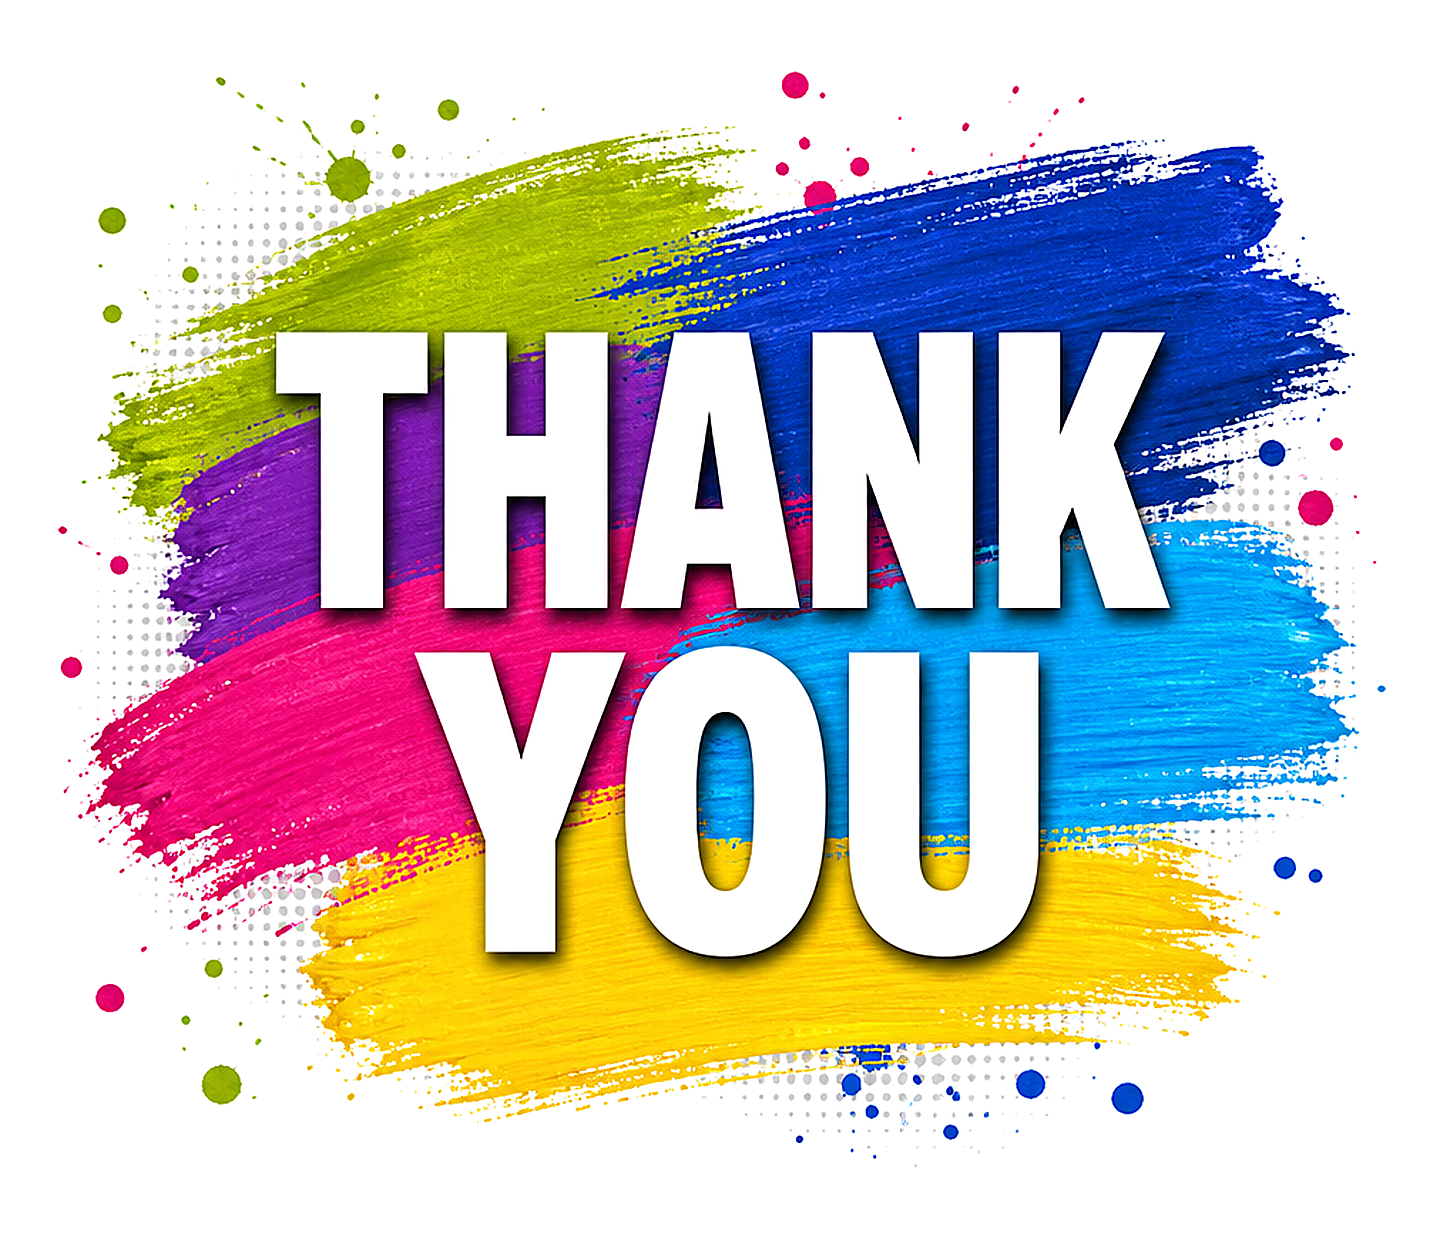
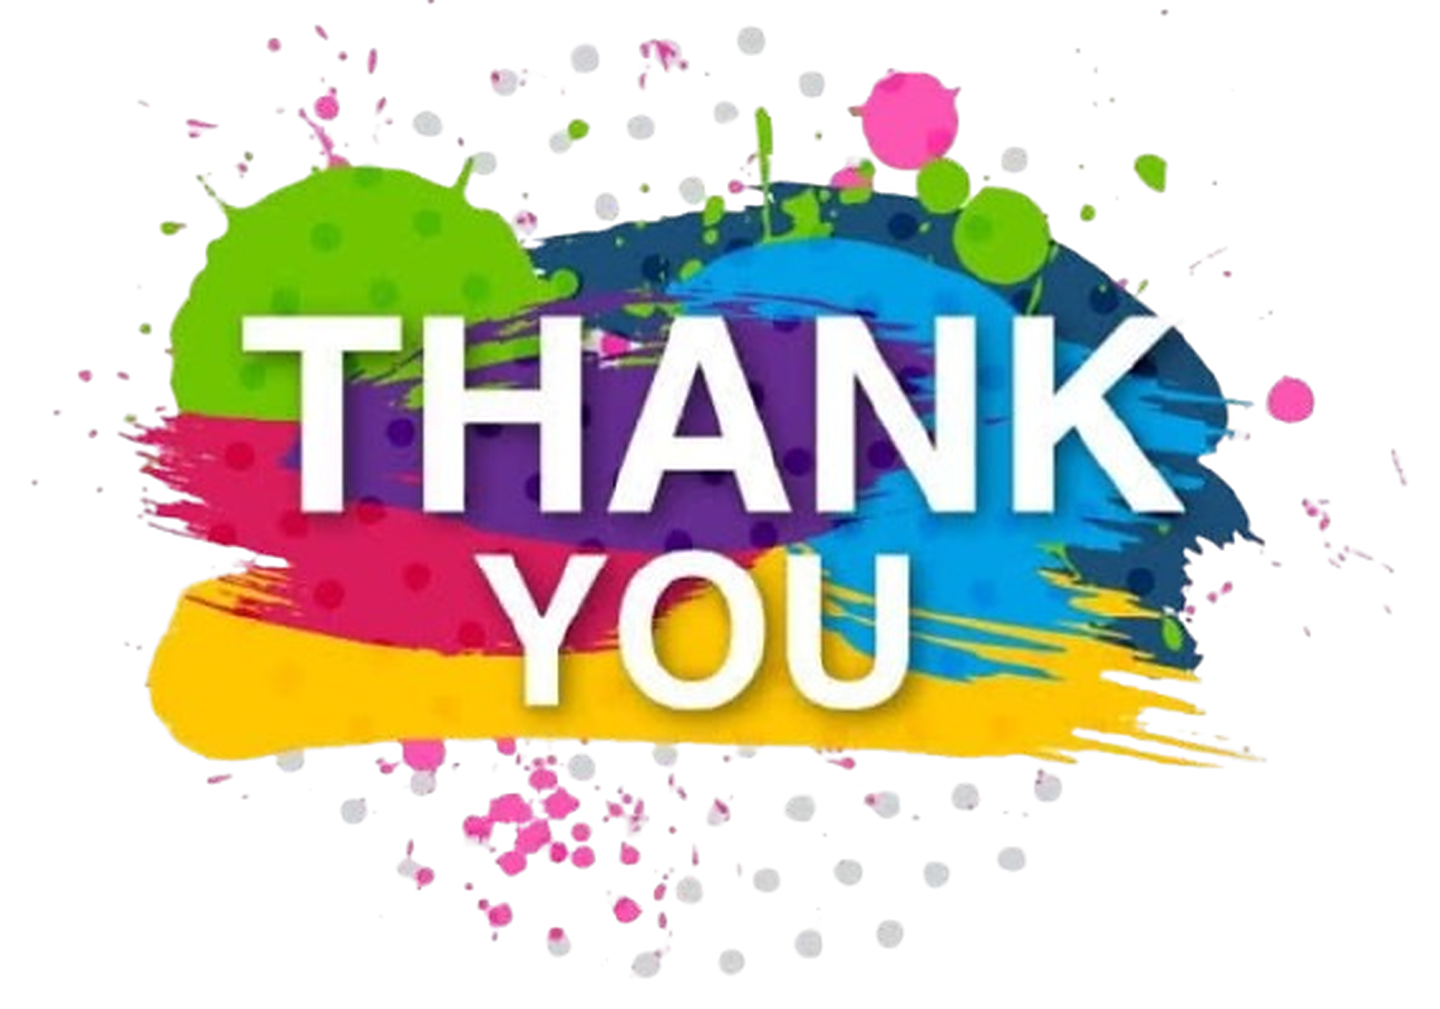
Replace Sample 2 last-page Thank you graphic with the attached image on a white background.

diff --git a/DBSolar_19_09_2023/quotation/templates/quotation/standard_industrial_quotation.html b/DBSolar_19_09_2023/quotation/templates/quotation/standard_industrial_quotation.html
@@ -620,7 +620,7 @@
 <table class="no-border" align="center" width="525" style="margin-top:12px;">
   <tr>
     <td style="border:none; text-align:center; padding:0;">
-      <img src="{% static 'quotation/proposal/thankyou.png' %}" style="width:360pt; height:310pt;">
+      <img src="{% static 'quotation/proposal/thankyou.png' %}" style="width:360pt; height:252pt;">
     </td>
   </tr>
 </table>
